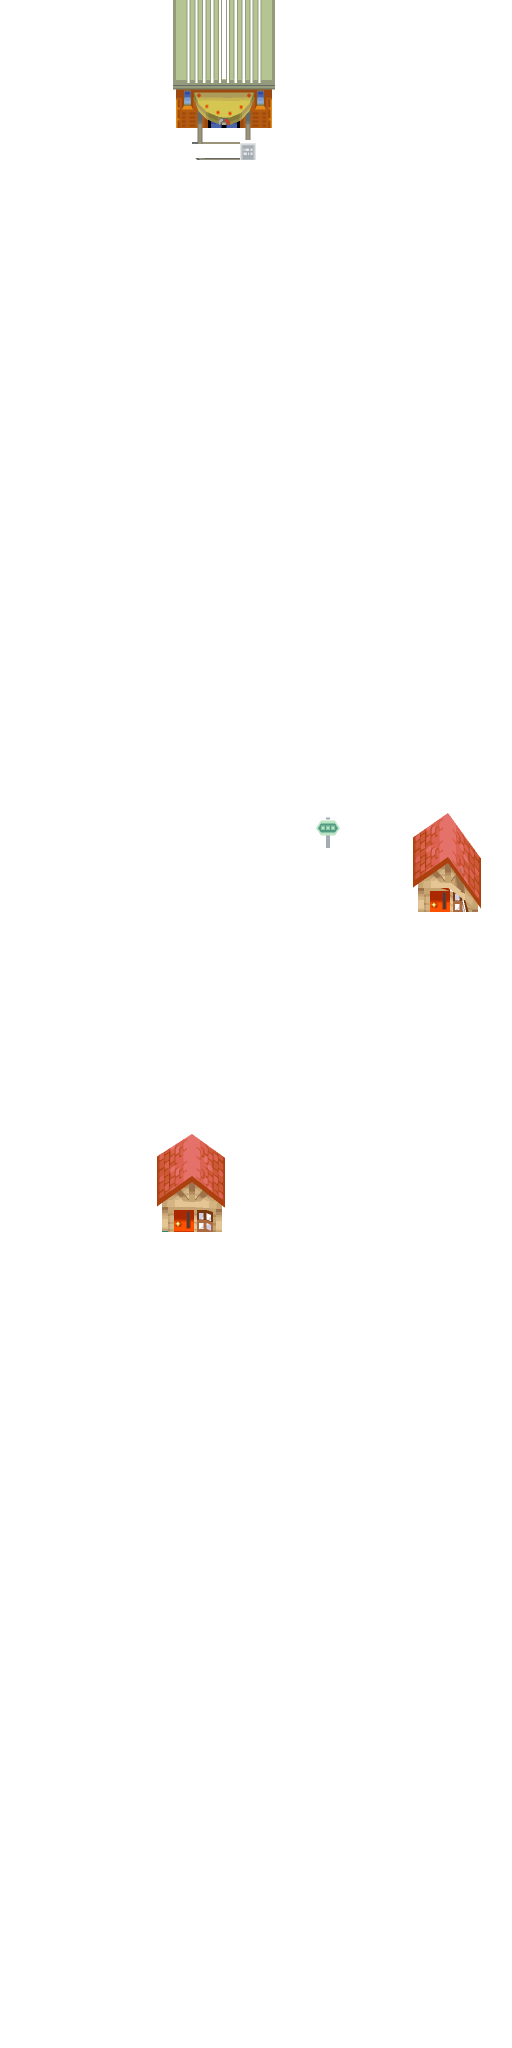
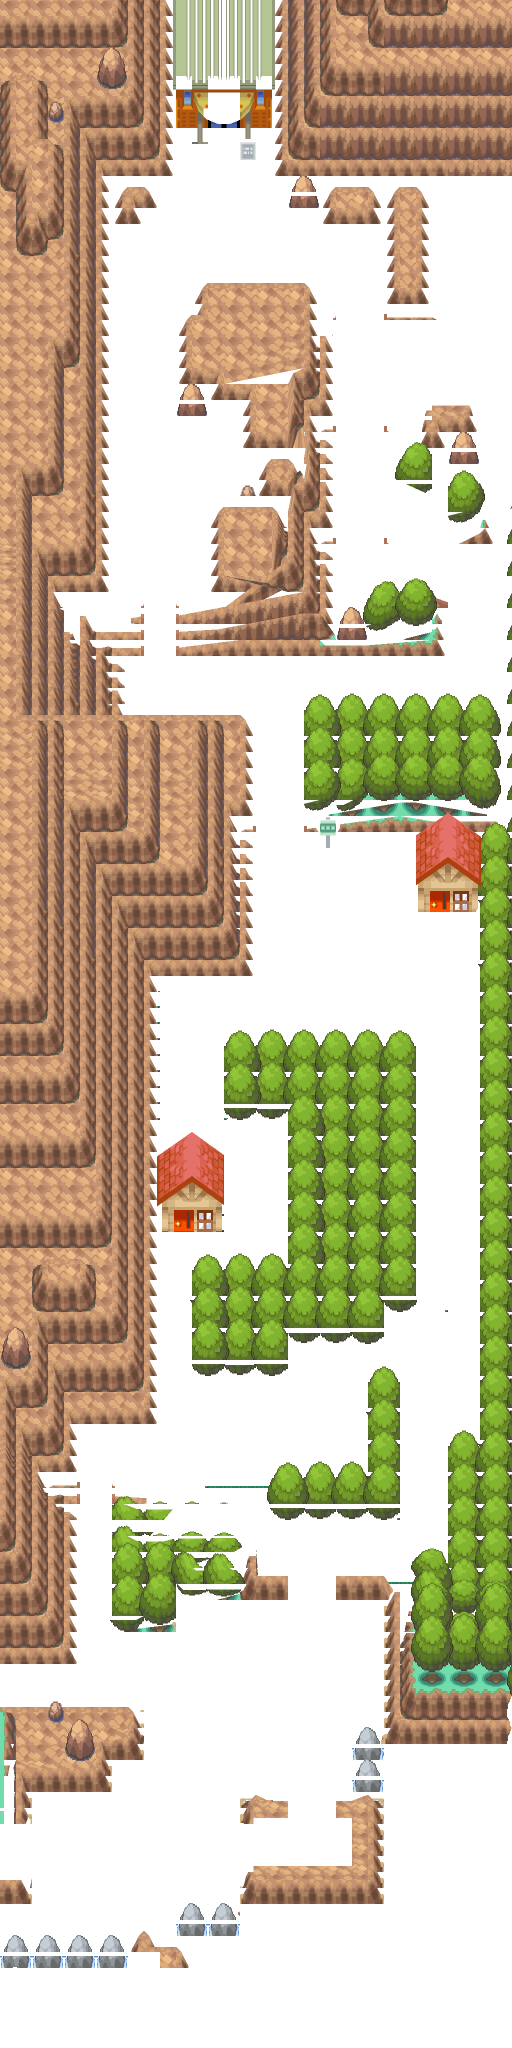
Johto's new maps: trees whole, no sea in the mountains, Tohjo Falls fixed
Ground heights now come from each chunk's BDHC (where the game stands you),
so tree crowns no longer count as ground. A tree or house rises from one
ground at its foot; a waterfall spanning two grounds is drawn per corner.
The sea hidden under mountains is left out, so it no longer shows between
terraces, and Tohjo Falls' stray pool is gone. Its front layer is back:
walls, rocks and boulders, never water.

Claude-Session: https://claude.ai/code/session_01Fuvyhht9MnhwDe84jA7TMP

diff --git a/tools/lib/hgss-map.js b/tools/lib/hgss-map.js
@@ -40,6 +40,34 @@ function sliver(t) {
   return longest > 24 && len(c) / longest < 2.5;
 }
 
+// A land's BDHC: where you stand. Points (x, z), slopes (normals), heights
+// (plane constants), then plates, each a rectangle between two points on the
+// plane of a slope and a height (y = -(nx x + nz z + d) / ny), in the chunk's
+// own coordinates (-256 to 256). All 20.12 fixed point.
+function readBdhc(b) {
+  if (!b || b.length < 16 || b.toString("ascii", 0, 4) !== "BDHC") return null;
+  let p = 4;
+  const [np, ns, nh, npl] = [0, 1, 2, 3].map((k) => b.readUInt16LE(p + 2 * k));
+  p += 12;
+  const pts = [], sl = [], hs = [], plates = [];
+  for (let i = 0; i < np; i++, p += 8) pts.push([b.readInt32LE(p) / 4096, b.readInt32LE(p + 4) / 4096]);
+  for (let i = 0; i < ns; i++, p += 12) sl.push([b.readInt32LE(p) / 4096, b.readInt32LE(p + 4) / 4096, b.readInt32LE(p + 8) / 4096]);
+  for (let i = 0; i < nh; i++, p += 4) hs.push(b.readInt32LE(p) / 4096);
+  for (let i = 0; i < npl; i++, p += 8) plates.push([0, 2, 4, 6].map((k) => b.readUInt16LE(p + k)));
+  return {
+    heightAt(x, z) {
+      let best = null;
+      for (const [a, c, si, hi] of plates) {
+        const [x1, z1] = pts[a], [x2, z2] = pts[c], [nx, ny, nz] = sl[si];
+        if (!ny || x < Math.min(x1, x2) || x > Math.max(x1, x2) || z < Math.min(z1, z2) || z > Math.max(z1, z2)) continue;
+        const y = -(nx * x + nz * z + hs[hi]) / ny;
+        if (best == null || y > best) best = y;
+      }
+      return best;
+    }
+  };
+}
+
 function renderMap(ROOT, MAPCONST, opts) {
   opts = opts || {};
   const PROJ = opts.proj || "oblique", K = opts.k || 1, SS = opts.ss || 2, GROUND = 16;
@@ -137,6 +165,7 @@ function renderMap(ROOT, MAPCONST, opts) {
       if (!bm) { console.warn("no building model", b.id); continue; }
       if (SKIP_BUILDINGS.has(b.id)) continue;
       const nb = N.parseNsb(bm);
+      const group = { tris: [] };
       const ang = (v) => (v / 65536) * 2 * Math.PI; // rotations are u16 angles
       let mtx = M.trans(wx + b.pos[0], wy + b.pos[1], wz + b.pos[2]);
       if (b.rot[1]) mtx = M.mul(mtx, M.rotY(ang(b.rot[1])));
@@ -147,7 +176,7 @@ function renderMap(ROOT, MAPCONST, opts) {
         // (Slivers, long and next to no width: the windmills' blades in
         // their rest pose, which draw as lines across the map.)
         if (sliver(t)) continue;
-        t.tex = nb.tex || bldTex; t.building = true; t.base = [wx + b.pos[0], wz + b.pos[2]]; tris.push(t);
+        t.tex = nb.tex || bldTex; t.building = group; group.tris.push(t); tris.push(t);
       }
       bldCount++;
     }
@@ -162,39 +191,36 @@ function renderMap(ROOT, MAPCONST, opts) {
   // Two layers: below sprites, above sprites (the "top" layer).
   const color = new Float32Array(SW * SH * 4), depth = new Float32Array(SW * SH).fill(-1e9);
   const isTop = new Uint8Array(SW * SH);
-  // (opts.ground: maps that aren't flat. Each tile's ground is the highest
-  // of the land's floors over it (surfaces facing up, as a waterfall's
-  // slope you Surf up does) where you can walk or Surf, and a solid tile's its neighbour's; everything is drawn from the ground
+  // (opts.ground: maps that aren't flat. Each tile's ground is the height the
+  // game stands you at there (its BDHC) where you can walk or Surf, and a
+  // solid tile's its neighbour's; everything is drawn from the ground
   // it stands on, so raised ground stays on its tiles and a house or tree on
   // it still rises from its base.)
   const TW = (cx1 - cx0 + 1) * 32, TH = (cz1 - cz0 + 1) * 32;
-  let G = null;
+  let G = null, open = null, wet = null;
   if (opts.ground) {
     // (Only where you can walk or Surf: a tree's crown or a rock's top isn't ground.)
-    const open = new Uint8Array(TW * TH);
+    open = new Uint8Array(TW * TH); wet = new Uint8Array(TW * TH);
     for (const [x, z] of cells) {
       const L = readLand(MX.land[z * MX.w + x]);
-      for (let ty = 0; ty < 32; ty++) for (let tx = 0; tx < 32; tx++) open[((z - cz0) * 32 + ty) * TW + (x - cx0) * 32 + tx] = (L.perm[ty * 32 + tx] >> 15) & 1 ? 0 : 1;
+      for (let ty = 0; ty < 32; ty++) for (let tx = 0; tx < 32; tx++) {
+        const v = L.perm[ty * 32 + tx], i = ((z - cz0) * 32 + ty) * TW + (x - cx0) * 32 + tx;
+        open[i] = (v >> 15) & 1 ? 0 : 1;
+        wet[i] = [0x10, 0x13, 0x15, 0x22].includes(v & 0xff) ? 1 : 0;
+      }
     }
     G = new Float32Array(TW * TH).fill(-Infinity);
-    for (const t of tris) {
-      if (t.building) continue;
-      const P = t.v.map((v) => v.p);
-      const a = [P[1][0] - P[0][0], P[1][1] - P[0][1], P[1][2] - P[0][2]], b = [P[2][0] - P[0][0], P[2][1] - P[0][1], P[2][2] - P[0][2]];
-      const n = [a[1] * b[2] - a[2] * b[1], a[2] * b[0] - a[0] * b[2], a[0] * b[1] - a[1] * b[0]];
-      const len = Math.hypot(...n);
-      if (!len || Math.abs(n[1]) / len < 0.5) continue;
-      const tx0 = Math.max(0, Math.floor((Math.min(P[0][0], P[1][0], P[2][0]) - ox) / 16)), tx1 = Math.min(TW - 1, Math.floor((Math.max(P[0][0], P[1][0], P[2][0]) - ox) / 16));
-      const tz0 = Math.max(0, Math.floor((Math.min(P[0][2], P[1][2], P[2][2]) - oz) / 16)), tz1 = Math.min(TH - 1, Math.floor((Math.max(P[0][2], P[1][2], P[2][2]) - oz) / 16));
-      const d = (P[1][0] - P[0][0]) * (P[2][2] - P[0][2]) - (P[2][0] - P[0][0]) * (P[1][2] - P[0][2]);
-      if (Math.abs(d) < 1e-9) continue;
-      for (let tz = tz0; tz <= tz1; tz++) for (let tx = tx0; tx <= tx1; tx++) {
-        const px = ox + tx * 16 + 8, pz = oz + tz * 16 + 8;
-        const w1 = ((px - P[0][0]) * (P[2][2] - P[0][2]) - (P[2][0] - P[0][0]) * (pz - P[0][2])) / d;
-        const w2 = ((P[1][0] - P[0][0]) * (pz - P[0][2]) - (px - P[0][0]) * (P[1][2] - P[0][2])) / d;
-        if (w1 < -1e-6 || w2 < -1e-6 || w1 + w2 > 1 + 1e-6) continue;
-        const y = P[0][1] + w1 * (P[1][1] - P[0][1]) + w2 * (P[2][1] - P[0][1]);
-        if (open[tz * TW + tx] && y > G[tz * TW + tx]) G[tz * TW + tx] = y;
+    // (From each chunk's BDHC, the heights the game stands you at: flat or
+    // sloping rectangles, "plates", each a plane. Where they overlap, a bridge
+    // over water, the higher.)
+    for (const [x, z] of cells) {
+      const B = readBdhc(readLand(MX.land[z * MX.w + x]).bdhc);
+      if (!B) continue;
+      for (let ty = 0; ty < 32; ty++) for (let tx = 0; tx < 32; tx++) {
+        const i = ((z - cz0) * 32 + ty) * TW + (x - cx0) * 32 + tx;
+        if (!open[i]) continue;
+        const h = B.heightAt(tx * 16 + 8 - 256, ty * 16 + 8 - 256);
+        if (h != null && h > G[i]) G[i] = h;
       }
     }
     // (Tiles with no floor, the solid ones, take a neighbour's.)
@@ -231,9 +257,85 @@ function renderMap(ROOT, MAPCONST, opts) {
     }
     return best === -Infinity ? low : best;
   };
-  // (Buildings too: a tree or house on a solid tile has its neighbours' ground under it, and a
-  // waterfall's top stands on the water it falls from.)
-  if (G) for (const t of tris) t.g = t.v.map((v) => groundUnder(v.p[0], v.p[1], v.p[2]));
+  // (A building, a tree or a house, stands on one ground, at its foot, so it
+  // rises whole; one over two grounds, a waterfall between its pools, is
+  // drawn from the ground under each corner, as the land is.)
+  if (G) {
+    // (Land well below the solid tiles it's under, the sea's plane under a
+    // mountain, is hidden in 3D; drawn, it shows through the cracks between
+    // the mountain's terraces. Left out.)
+    // (Hidden: more than 64 under the highest land surface over a solid tile,
+    // under a mountain's top, not a tree's crown.)
+    const top = new Float32Array(TW * TH).fill(-Infinity);
+    for (const t of tris) {
+      if (t.building) continue;
+      const P = t.v.map((v) => v.p);
+      const a = [P[1][0] - P[0][0], P[1][1] - P[0][1], P[1][2] - P[0][2]], b = [P[2][0] - P[0][0], P[2][1] - P[0][1], P[2][2] - P[0][2]];
+      const n = [a[1] * b[2] - a[2] * b[1], a[2] * b[0] - a[0] * b[2], a[0] * b[1] - a[1] * b[0]];
+      const len = Math.hypot(...n), d = (P[1][0] - P[0][0]) * (P[2][2] - P[0][2]) - (P[2][0] - P[0][0]) * (P[1][2] - P[0][2]);
+      if (!len || Math.abs(n[1]) / len < 0.5 || Math.abs(d) < 1e-9) continue;
+      const tx0 = Math.max(0, Math.floor((Math.min(P[0][0], P[1][0], P[2][0]) - ox) / 16)), tx1 = Math.min(TW - 1, Math.floor((Math.max(P[0][0], P[1][0], P[2][0]) - ox) / 16));
+      const tz0 = Math.max(0, Math.floor((Math.min(P[0][2], P[1][2], P[2][2]) - oz) / 16)), tz1 = Math.min(TH - 1, Math.floor((Math.max(P[0][2], P[1][2], P[2][2]) - oz) / 16));
+      for (let tz = tz0; tz <= tz1; tz++) for (let tx = tx0; tx <= tx1; tx++) {
+        const px = ox + tx * 16 + 8, pz = oz + tz * 16 + 8;
+        const w1 = ((px - P[0][0]) * (P[2][2] - P[0][2]) - (P[2][0] - P[0][0]) * (pz - P[0][2])) / d;
+        const w2 = ((P[1][0] - P[0][0]) * (pz - P[0][2]) - (px - P[0][0]) * (P[1][2] - P[0][2])) / d;
+        if (w1 < -1e-6 || w2 < -1e-6 || w1 + w2 > 1 + 1e-6) continue;
+        const y = P[0][1] + w1 * (P[1][1] - P[0][1]) + w2 * (P[2][1] - P[0][1]);
+        if (y > top[tz * TW + tx]) top[tz * TW + tx] = y;
+      }
+    }
+    const buried = (p) => {
+      const tx = Math.floor((p[0] - ox) / 16), tz = Math.floor((p[2] - oz) / 16);
+      if (tx < 0 || tz < 0 || tx >= TW || tz >= TH) return false;
+      return !open[tz * TW + tx] && p[1] < top[tz * TW + tx] - 64;
+    };
+    for (const t of tris) if (!t.building && t.v.every((v) => buried(v.p))) t.buried = true;
+    for (const t of tris) if (!t.building) t.g = t.v.map((v) => groundUnder(v.p[0], v.p[1], v.p[2]));
+    for (const grp of new Set(tris.filter((t) => t.building).map((t) => t.building))) {
+      const ps = grp.tris.flatMap((t) => t.v.map((v) => v.p));
+      const x0 = Math.min(...ps.map((p) => p[0])), x1 = Math.max(...ps.map((p) => p[0]));
+      const z0 = Math.min(...ps.map((p) => p[2])), z1 = Math.max(...ps.map((p) => p[2]));
+      const foot = Math.min(...ps.map((p) => p[1]));
+      let lo = Infinity, hi = -Infinity;
+      // (Two tiles north too: a waterfall is a sheet on the row below its top.)
+      for (let tz = Math.floor((z0 - oz) / 16) - 2; tz <= Math.floor((z1 - oz) / 16 - 1e-3); tz++) for (let tx = Math.floor((x0 - ox) / 16); tx <= Math.floor((x1 - ox) / 16 - 1e-3); tx++) {
+        if (tx < 0 || tz < 0 || tx >= TW || tz >= TH || !open[tz * TW + tx]) continue;
+        lo = Math.min(lo, G[tz * TW + tx]); hi = Math.max(hi, G[tz * TW + tx]);
+      }
+      grp.spans = hi - lo > 32;
+      if (opts.verbose) console.log("building", Math.round(x0 - ox), Math.round(z0 - oz), Math.round(x1 - x0), Math.round(z1 - z0), "foot", Math.round(foot), "ground", lo, hi, grp.spans);
+      const g = groundUnder((x0 + x1) / 2, foot, z1 - 1);
+      for (const t of grp.tris) t.g = grp.spans ? t.v.map((v) => groundUnder(v.p[0], v.p[1], v.p[2])) : [g, g, g];
+    }
+  }
+  let solidAround = null;
+  // (The textures of the water you Surf on and its falls: never in front of you.)
+  // (Those mostly on such tiles: a rock standing in the water isn't water.)
+  const waterTex = new Set();
+  if (G) {
+    const count = new Map();
+    for (const t of tris) {
+      if (!t.mat || !t.mat.texName) continue;
+      const tx = Math.floor(((t.v[0].p[0] + t.v[1].p[0] + t.v[2].p[0]) / 3 - ox) / 16), tz = Math.floor(((t.v[0].p[2] + t.v[1].p[2] + t.v[2].p[2]) / 3 - oz) / 16);
+      if (tx < 0 || tz < 0 || tx >= TW || tz >= TH) continue;
+      const c = count.get(t.mat.texName) || [0, 0];
+      c[0] += wet[tz * TW + tx]; c[1]++;
+      count.set(t.mat.texName, c);
+    }
+    for (const [name, [w, n]] of count) if (w > 0.8 * n) waterTex.add(name);
+  }
+  if (G) {
+    solidAround = new Uint8Array(TW * TH);
+    for (let z = 0; z < TH; z++) for (let x = 0; x < TW; x++) {
+      let all = true;
+      for (let dz = -1; dz <= 1 && all; dz++) for (let dx = -1; dx <= 1 && all; dx++) {
+        const u = x + dx, w = z + dz;
+        if (u >= 0 && w >= 0 && u < TW && w < TH && open[w * TW + u]) all = false;
+      }
+      solidAround[z * TW + x] = all ? 1 : 0;
+    }
+  }
   const project = (p, g) => PROJ === "top"
     ? [(p[0] - ox) * SS, (p[2] - oz) * SS, p[1]]
     : g != null ? [(p[0] - ox) * SS, (p[2] - oz - K * Math.max(0, p[1] - g)) * SS, (p[1] - g) + p[2] * K]
@@ -258,13 +360,21 @@ function renderMap(ROOT, MAPCONST, opts) {
     const matAlpha = mat ? mat.alpha : 1;
     const translucent = matAlpha < 0.99 || (tex && (tex.fmt === 1 || tex.fmt === 6));
     if (translucent !== translucentPass) return;
+    if (tri.buried) return;
+    // (The sea inside a mountain: its tile and all round it solid, and not
+    // water. Hidden in 3D; drawn, it shows between the mountain's terraces.)
+    const inRock = solidAround && mat && /^sea_(on|un)/.test(mat.texName) ? (w0, w1, w2) => {
+      const V = tri.v, wx = w0 * V[0].p[0] + w1 * V[1].p[0] + w2 * V[2].p[0], wz = w0 * V[0].p[2] + w1 * V[1].p[2] + w2 * V[2].p[2];
+      const tx = Math.floor((wx - ox) / 16), tz = Math.floor((wz - oz) / 16);
+      return tx >= 0 && tz >= 0 && tx < TW && tz < TH && solidAround[tz * TW + tx];
+    } : null;
     const P = tri.v.map((v, k) => project(v.p, tri.g ? tri.g[k] : null));
     // Back-face culling (the DS culls per material). Screen y down, so CCW in world = ...
     const area2 = (P[1][0] - P[0][0]) * (P[2][1] - P[0][1]) - (P[2][0] - P[0][0]) * (P[1][1] - P[0][1]);
     if (Math.abs(area2) < 1e-9) return;
     // (A triangle the ground's heights turn over, between two heights, is folded: left out.)
     if (tri.g) {
-      const Q = tri.v.map((v) => project(v.p, null));
+      const Q = tri.v.map((v) => [v.p[0], v.p[2] - K * v.p[1]]);
       const flat2 = (Q[1][0] - Q[0][0]) * (Q[2][1] - Q[0][1]) - (Q[2][0] - Q[0][0]) * (Q[1][1] - Q[0][1]);
       if (flat2 * area2 < 0) return;
     }
@@ -280,6 +390,7 @@ function renderMap(ROOT, MAPCONST, opts) {
       if (w0 < -1e-6 || w1 < -1e-6 || w2 < -1e-6) continue;
       const d = w0 * P[0][2] + w1 * P[1][2] + w2 * P[2][2];
       const idx = y * SW + x;
+      if (inRock && inRock(w0, w1, w2)) continue;
       if (d < depth[idx] - 0.01) continue;
       const V = tri.v;
       const c = [0, 1, 2].map((k) => w0 * V[0].c[k] + w1 * V[1].c[k] + w2 * V[2].c[k]);
@@ -293,6 +404,8 @@ function renderMap(ROOT, MAPCONST, opts) {
       const lit = flag("nolight") ? [1, 1, 1] : c.map((v) => Math.min(1, v / 0.81)); // vertex colours are ~0.81 = full brightness
       const r = rgba[0] * lit[0], g = rgba[1] * lit[1], b = rgba[2] * lit[2];
       if (translucentPass) {
+        // (Water over something in front of you, a waterfall's spray over a wall: behind you, with it.)
+        if (tri.g && mat && (waterTex.has(mat.texName) || (tri.building && tri.building.spans))) isTop[idx] = 0;
         color[idx * 4] = color[idx * 4] * (1 - a) + r * a; color[idx * 4 + 1] = color[idx * 4 + 1] * (1 - a) + g * a;
         color[idx * 4 + 2] = color[idx * 4 + 2] * (1 - a) + b * a; color[idx * 4 + 3] = 255;
       } else {
@@ -303,9 +416,13 @@ function renderMap(ROOT, MAPCONST, opts) {
         const wz = w0 * V[0].p[2] + w1 * V[1].p[2] + w2 * V[2].p[2];
         const wy = w0 * V[0].p[1] + w1 * V[1].p[1] + w2 * V[2].p[1] - (tri.g ? w0 * tri.g[0] + w1 * tri.g[1] + w2 * tri.g[2] - GROUND : 0);
         const screenRow = Math.floor(y / SS / 16), surfRow = Math.floor((wz - oz) / 16 - 1e-3);
-        // (On a map drawn from its ground, only buildings and trees: its land, a
-        // waterfall or a cliff, is never in front of you.)
-        isTop[idx] = PROJ !== "top" && (!tri.g || tri.building) && wy > GROUND + 1.5 && surfRow > screenRow ? 1 : 0;
+        // (Drawn from its ground: not a waterfall drawn from the ground under
+        // each corner, which you climb, nor anything on a tile you walk or
+        // Surf on, nor water.)
+        const wx = w0 * V[0].p[0] + w1 * V[1].p[0] + w2 * V[2].p[0];
+        const own = Math.min(TH - 1, Math.max(0, surfRow)) * TW + Math.min(TW - 1, Math.max(0, Math.floor((wx - ox) / 16)));
+        const grounded = tri.g && ((tri.building && tri.building.spans) || open[own] || (mat && waterTex.has(mat.texName)));
+        isTop[idx] = PROJ !== "top" && !grounded && wy > GROUND + 1.5 && surfRow > screenRow ? 1 : 0;
       }
     }
   }

diff --git a/tools/build-johto.js b/tools/build-johto.js
@@ -208,8 +208,7 @@ MAPS.forEach((m, i) => {
     r.below[i] = 255;
   }
   writePng(path.join(mapsDir, m.name + ".png"), W, H, r.below);
-  // (Nothing in a cave stands in front of you: its waterfalls are models, and would.)
-  writePng(path.join(mapsDir, m.name + "-top.png"), W, H, m.type === "underground" ? new Uint8ClampedArray(W * H * 4) : r.top);
+  writePng(path.join(mapsDir, m.name + "-top.png"), W, H, r.top);
   // Outside the map: the forest of its top-left corner (2x2 tiles).
   const border = new Uint8ClampedArray(32 * 32 * 4);
   for (let y = 0; y < 32; y++) border.set(r.below.subarray(y * W * 4, y * W * 4 + 128), y * 128);

diff --git a/README.md b/README.md
@@ -1657,10 +1657,17 @@ model) and the area's textures, and rasterises the terrain and buildings in
 software at 16 px a tile: house fronts and tree trunks drawn upward from
 their tiles, as in FireRed, and what stands in front of you (tree tops,
 roofs) in the map's `-top` layer. Johto's first three maps are flat; Route 27,
-Tohjo Falls and Route 26 climb, so they're drawn from each tile's ground (the
-highest floor over a tile you can walk or Surf on, and a solid tile takes its
-neighbour's): raised ground stays on its tiles, and a tree, house or cliff
-rises from the ground it stands on. HGSS's waterfalls are solid, and become
+Tohjo Falls and Route 26 climb, so they're drawn from each tile's ground: the
+height the game stands you at there (each chunk's BDHC, its flat and sloping
+"plates"), on a tile you can walk or Surf on, and a solid tile takes its
+neighbour's. Raised ground stays on its tiles; the land's corners stand on
+the highest ground around them that isn't above them; a tree or house rises
+whole from the ground at its foot, and a waterfall, between two grounds, is
+drawn from the ground under each corner. Hidden land (the sea under a
+mountain, which would show between its terraces) is left out, and any gap
+left takes its neighbours' colour. In front of you go trees, roofs, rocks and
+walls, but never water or what stands on a tile you walk or Surf on, so you
+pass behind Tohjo Falls' rocks and walls and climb its falls in view. HGSS's waterfalls are solid, and become
 FireRed's, which Waterfall takes you up (or down); the maps' joins come from
 where they sit on the matrix. The tiles' permissions become collision and
 FireRed's behaviours (tall grass, water, ledges, doors), and from the event
